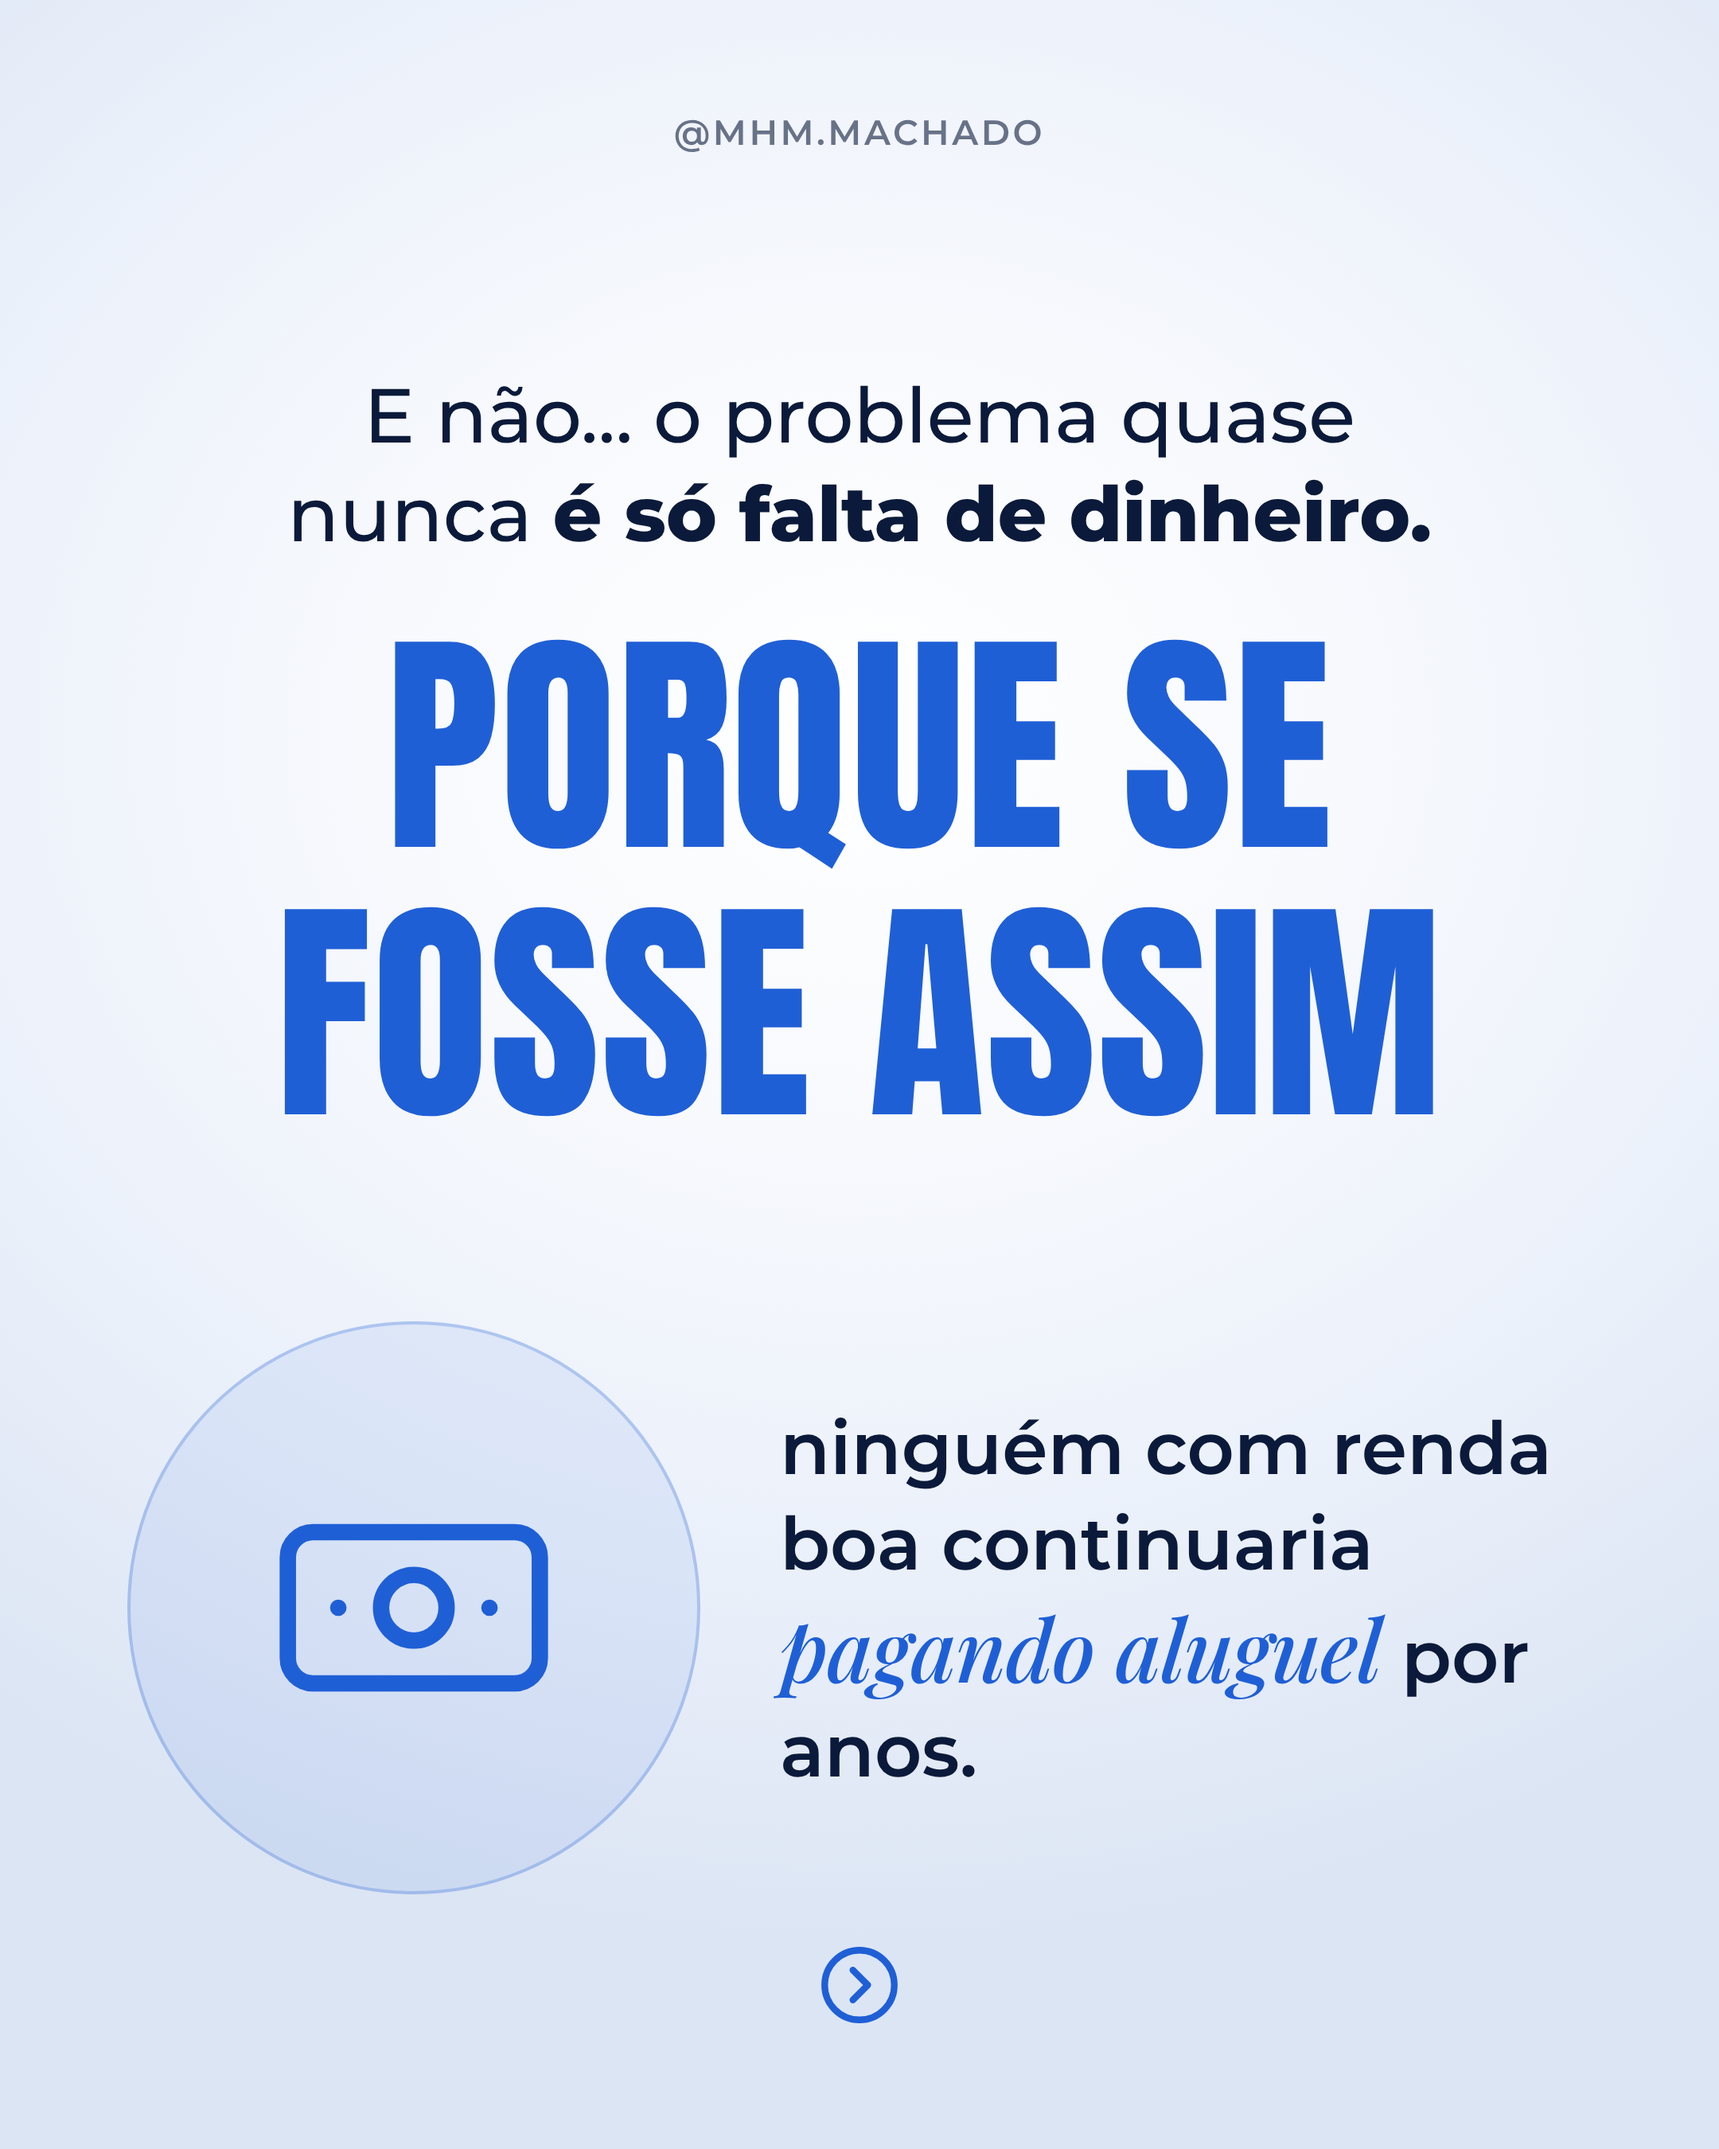
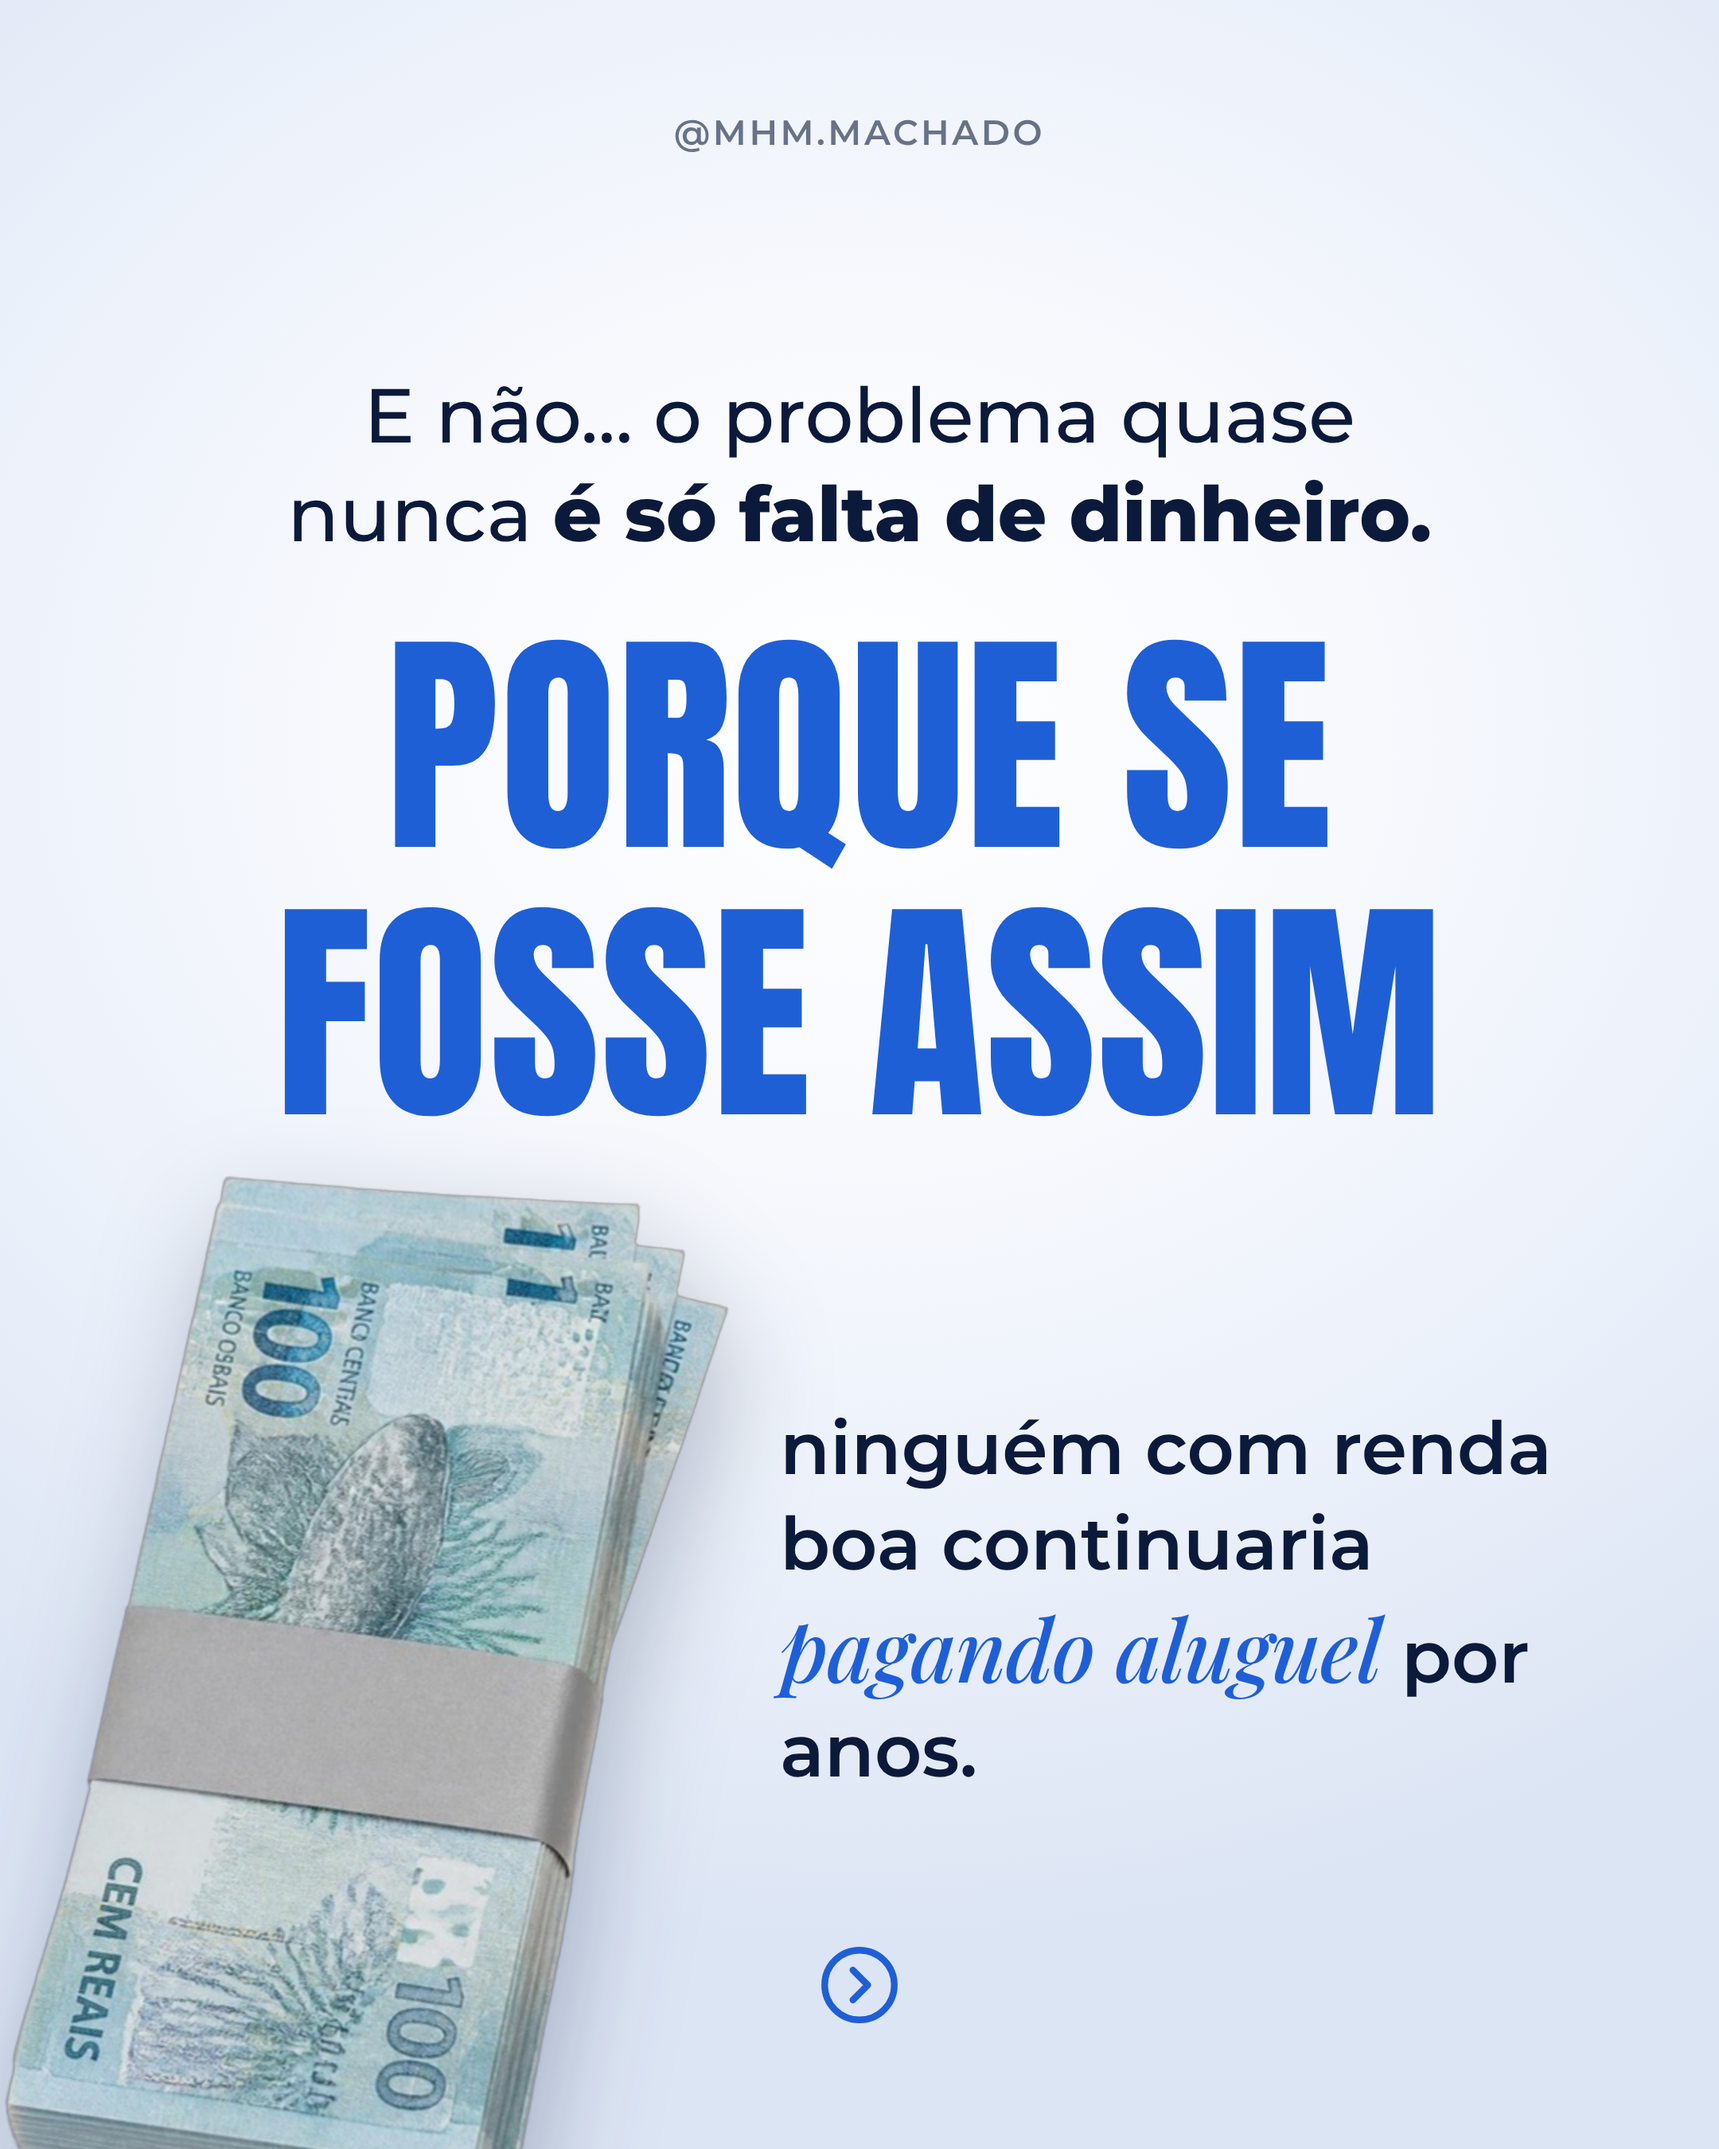
carrossel erros-aluguel: lâmina 2 com maço de notas de R$ 100 no lugar do ícone (pedido do dono)
Claude-Session: https://claude.ai/code/session_018X91MFfPMRMPYSAfb3KdfT

Changed region(s): [[0.0, 0.5289, 0.4343, 1.0]]

diff --git a/docs/posicionamento/carrosseis/2026-10-19-erros-aluguel/laminas.html b/docs/posicionamento/carrosseis/2026-10-19-erros-aluguel/laminas.html
@@ -38,9 +38,7 @@
  <p style="font-size:48px;font-weight:500;line-height:1.3">E não... o problema quase<br>nunca <b style="font-weight:800">é só falta de dinheiro.</b></p>
  <div class="cond" style="font-size:150px;line-height:1.12;margin-top:30px;color:var(--azulc)">Porque se<br>fosse assim</div>
 </div>
-<div style="position:absolute;left:80px;top:830px;width:360px;height:360px;border-radius:50%;background:rgba(31,95,214,.08);border:2px solid rgba(31,95,214,.25);display:grid;place-items:center">
- <svg viewBox="0 0 24 24" style="width:190px;height:190px;fill:none;stroke:var(--azulc);stroke-width:1.3;stroke-linecap:round;stroke-linejoin:round"><rect x="2" y="6" width="20" height="12" rx="2"/><circle cx="12" cy="12" r="2.6"/><path d="M6 12h.01M18 12h.01"/></svg>
-</div>
+<img src="img/notas-100.png" style="position:absolute;left:-30px;bottom:-60px;width:520px;transform:rotate(-8deg);filter:drop-shadow(0 26px 34px rgba(11,26,58,.28))">
 <div style="position:absolute;left:490px;right:80px;top:880px;font-size:46px;font-weight:600;line-height:1.3">
  ninguém com renda boa continuaria <span class="it" style="font-size:54px;color:var(--azulc)">pagando aluguel</span> por anos.
 </div>
